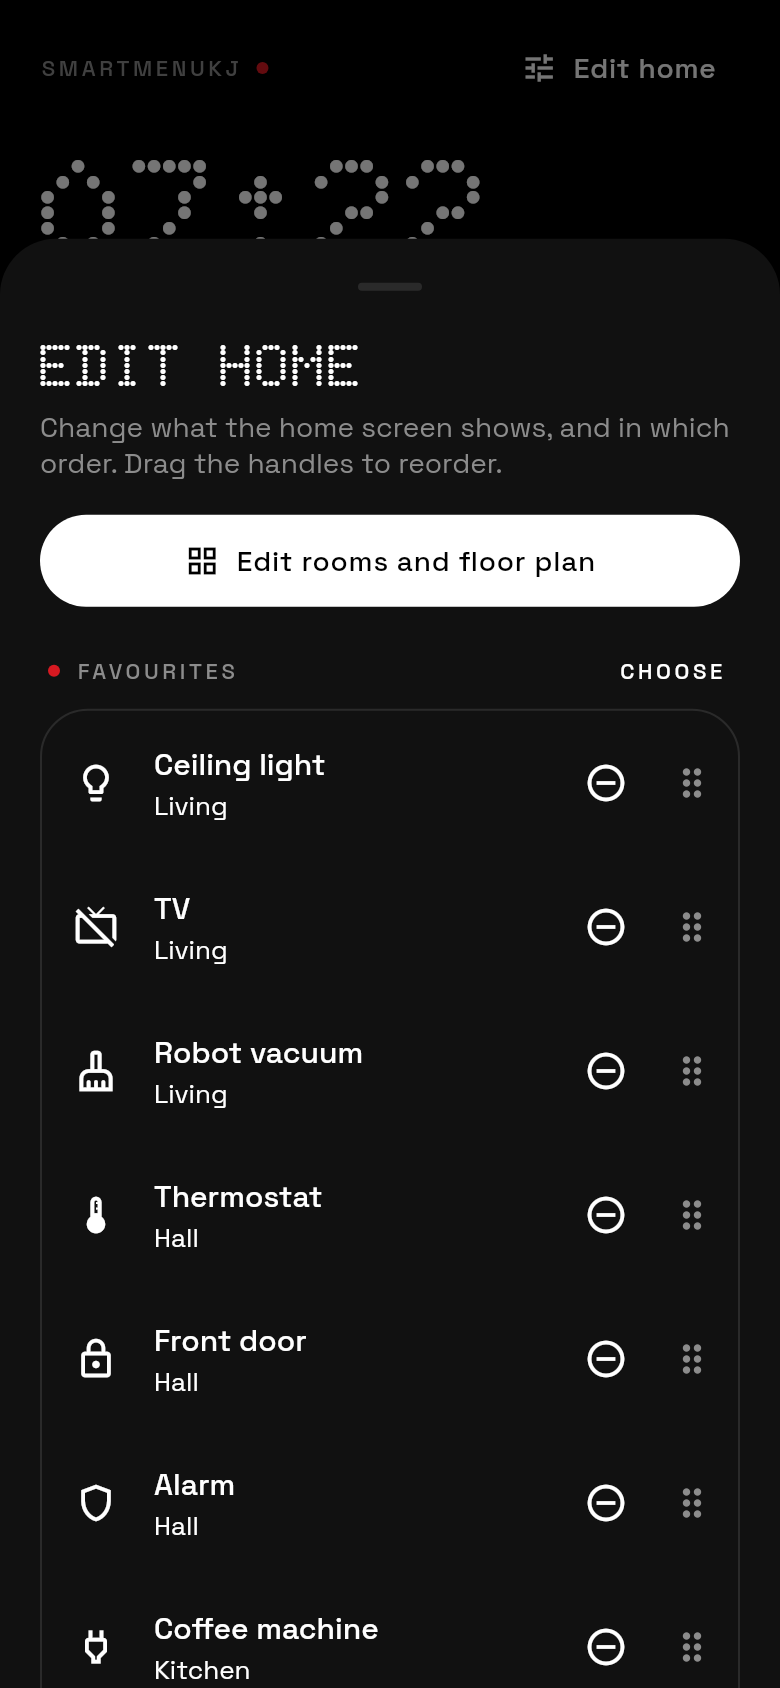
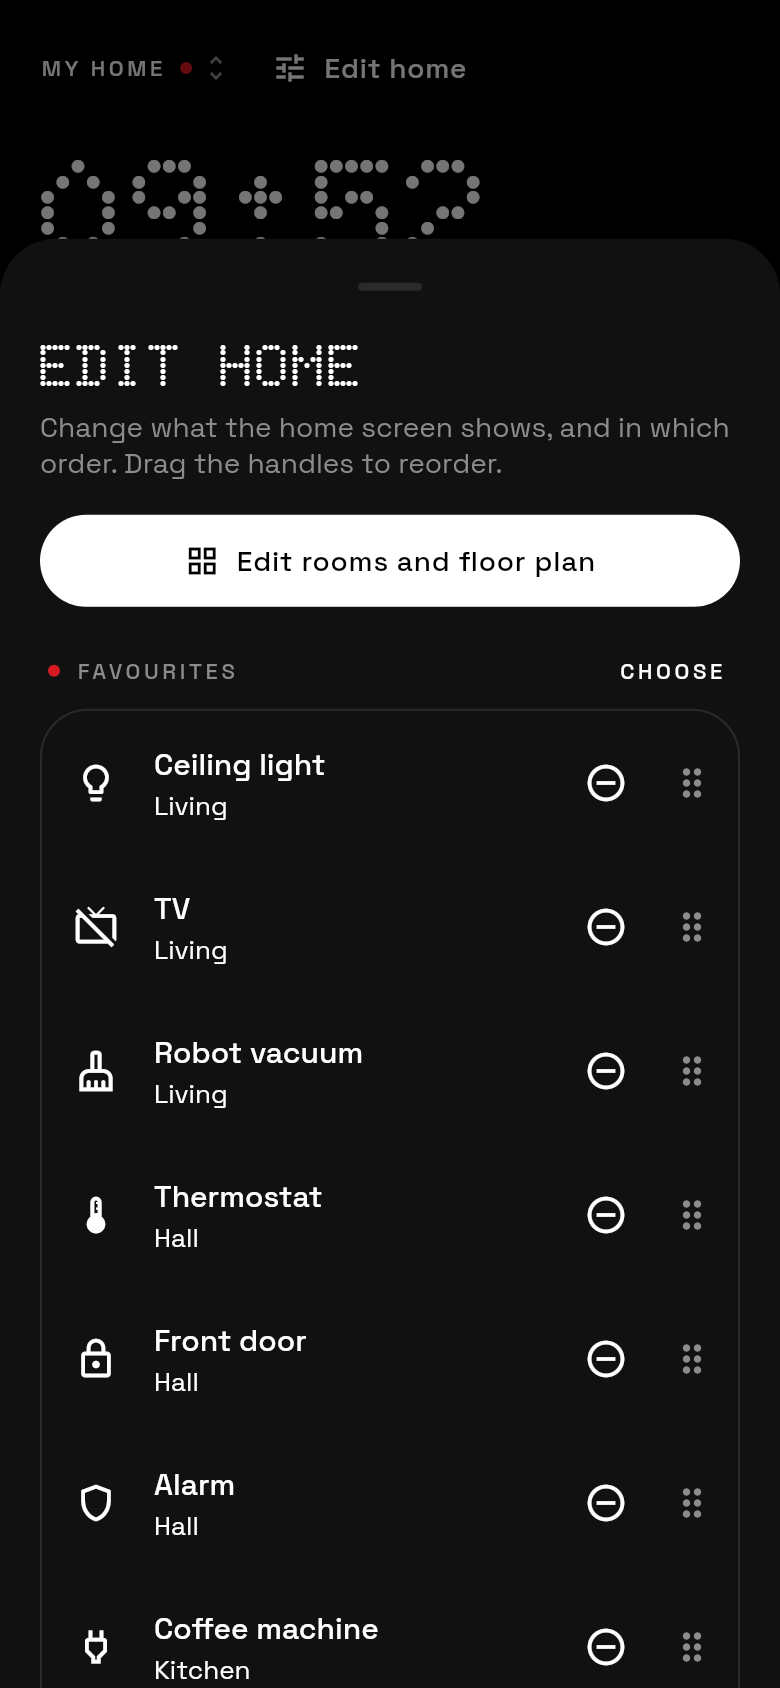
Guide and screenshots for homes and accounts
Claude-Session: https://claude.ai/code/session_01AboNtYpLiEfpvgLTNmuoCb

diff --git a/tool/screenshots_test.dart b/tool/screenshots_test.dart
@@ -7,7 +7,10 @@ import 'package:flutter/services.dart';
 import 'package:flutter_test/flutter_test.dart';
 import 'package:http/http.dart' as http;
 import 'package:http/testing.dart';
+import 'package:shared_preferences/shared_preferences.dart';
 import 'package:smartmenukj/app.dart';
+import 'package:smartmenukj/cloud/cloud_sync.dart';
+import 'package:smartmenukj/cloud/memory_cloud.dart';
 import 'package:smartmenukj/models/device.dart';
 import 'package:smartmenukj/state/home_store.dart';
 import 'package:smartmenukj/state/repository.dart';
@@ -29,14 +32,15 @@ Future<void> _loadFonts() async {
   }
 }
 
-Future<HomeStore> _app(WidgetTester tester, Size size, {String theme = 'dark'}) async {
+Future<HomeStore> _app(WidgetTester tester, Size size, {String theme = 'dark', CloudSync? cloud}) async {
   tester.view.physicalSize = size * 2;
   tester.view.devicePixelRatio = 2;
   addTearDown(tester.view.reset);
   final store = HomeStore(repository: MemoryHomeRepository(), client: MockClient((_) async => http.Response('[]', 200)));
   await store.load();
   store.data.themeMode = theme;
-  await tester.pumpWidget(SmartMenuApp(store: store, poll: false));
+  // A pretend cloud, signed out, so the account card shows as it does in the app.
+  await tester.pumpWidget(SmartMenuApp(store: store, cloud: cloud ?? CloudSync(store: store, api: MemoryCloud().app()), poll: false));
   await tester.pumpAndSettle();
   return store;
 }
@@ -162,6 +166,39 @@ void main() {
     await tester.pumpAndSettle();
     await tester.enterText(find.byKey(const Key('matter-code')), '3497-011-2332');
     await _shot(tester, 'phone-matter');
+  });
+
+  testWidgets('phone homes', (tester) async {
+    final store = await _app(tester, phone);
+    await store.addHome('Beach house');
+    await store.addHome('Office');
+    await store.openHome(store.homes.first.id);
+    await tester.pumpAndSettle();
+    await tester.tap(find.byKey(const Key('home-switch')));
+    await _shot(tester, 'phone-homes');
+  });
+
+  testWidgets('phone account', (tester) async {
+    // ignore: invalid_use_of_visible_for_testing_member
+    SharedPreferences.setMockInitialValues({});
+    tester.view.physicalSize = phone * 2;
+    tester.view.devicePixelRatio = 2;
+    addTearDown(tester.view.reset);
+    final store = HomeStore(repository: MemoryHomeRepository(), client: MockClient((_) async => http.Response('[]', 200)));
+    await store.load();
+    store.addVirtualDevice('demo', 'Porch light', DeviceKind.light);
+    final cloud = CloudSync(store: store, api: MemoryCloud().app(), deviceName: 'Kitchen tablet', delay: const Duration(milliseconds: 10));
+    await cloud.start();
+    await cloud.signIn('kj@example.com', 'secret1', create: true);
+    await cloud.setHub(true);
+    await tester.pumpWidget(SmartMenuApp(store: store, cloud: cloud, poll: false));
+    await tester.pumpAndSettle();
+    await tester.tap(find.byKey(const Key('tab-connect')));
+    await tester.pumpAndSettle();
+    await tester.tap(find.byKey(const Key('account-card')));
+    await _shot(tester, 'phone-account');
+    cloud.dispose();
+    await tester.pump(const Duration(seconds: 1));
   });
 
   testWidgets('phone light theme', (tester) async {

diff --git a/README.md b/README.md
@@ -4,7 +4,7 @@
 
 A free smart home app for phones and computers. Draw your home as a floor plan, put your devices where they really are, and control them with a tap. It is styled after Nothing OS: black and white, dot-matrix type and a single red accent.
 
-Everything is free and local-first. There is no account, no cloud, no subscription and no paywall. The app talks to your devices directly on your home network, and your home layout is saved on your own device.
+Everything is free and local-first. There is no subscription and no paywall, and no account is needed: the app talks to your devices directly on your home network, and your homes are saved on your own device. A free account is optional; it keeps your homes in step on every phone and computer and lets you switch things from anywhere.
 
 **[Download for Android](https://github.com/SW1TF0/HomeOS/releases/latest/download/SmartMenuKJ-android.apk)** · [Windows, macOS and Linux](https://github.com/SW1TF0/HomeOS/releases/latest)
 
@@ -20,9 +20,9 @@ Everything is free and local-first. There is no account, no cloud, no subscripti
 | --- | --- | --- | --- |
 | ![Colour](docs/screenshots/phone-colour.png) | ![Connect](docs/screenshots/phone-connect.png) | ![Matter](docs/screenshots/phone-matter.png) | ![Light theme](docs/screenshots/phone-devices-light.png) |
 
-| Robot vacuum | Alarm |
-| --- | --- |
-| ![Robot vacuum](docs/screenshots/phone-vacuum.png) | ![Alarm](docs/screenshots/phone-alarm.png) |
+| Robot vacuum | Alarm | More than one home | Account |
+| --- | --- | --- | --- |
+| ![Robot vacuum](docs/screenshots/phone-vacuum.png) | ![Alarm](docs/screenshots/phone-alarm.png) | ![Homes](docs/screenshots/phone-homes.png) | ![Account](docs/screenshots/phone-account.png) |
 
 ![Desktop](docs/screenshots/desktop-map.png)
 
@@ -36,6 +36,8 @@ Everything is free and local-first. There is no account, no cloud, no subscripti
 - **Matter, with no hub.** SmartMenuKJ is its own Matter controller: type a device's pairing code and its lights, plugs, sensors, blinds, locks, thermostat, robot vacuum, washer, dishwasher, air purifier, water valve or smoke alarm appear, controlled directly on your network. Matter bridges (Hue, IKEA, Aqara...) bring all their devices at once.
 - **Scan network.** Finds everything on your Wi-Fi that answers (mDNS, UPnP / SSDP, Kasa and Yeelight discovery, and a quick check of TV ports): TVs, speakers, plugs, lights, hubs, printers and more. Add anything in one tap, or type a device's IP address.
 - **TV remote.** Power, volume, mute, channels, arrows, OK, back, home and play / pause for Samsung, LG, Sony and Roku TVs, plus volume and play / pause for Chromecast, Google TV and UPnP speakers. TVs that are fully off are woken with Wake-on-LAN.
+- **More than one home.** Tap the home's name at the top of the home screen to switch homes, add one, rename, reorder or delete them. Each home has its own floor plan, devices, connections and scenes.
+- **Account and control from anywhere (optional, free).** Sign in under **Connect** and your homes are saved to your account and stay in step on every device you sign in on. Most devices only answer on your home Wi-Fi, so leave one phone, tablet or computer at home with the app, signed in and plugged in, and turn on **Keep … online from this device** there. Your other devices then switch things through it from anywhere; the home screen shows *Away · through …* when they do. On Android it keeps running in the background with a small notification.
 - **Backups.** Copy your whole home (rooms, devices, connections) as text and paste it back on another phone or computer.
 - **Light and dark themes**, phone layout with a bottom bar, desktop layout with a side rail.
 
@@ -82,6 +84,7 @@ The macOS app is not signed, so the first time you open it, right-click it and c
 1. The app opens with a sample home of virtual devices so you can try everything right away. Delete or move anything you like.
 2. Go to **Connect** and tap **Scan network**, or pick a connection and type its address.
 3. New devices appear on the **Devices** tab. Open **Map** and tap **Edit**: new devices wait in the tray at the bottom, drag each one into its room.
+4. To control your home when you are out, tap **Sign in** on **Connect**, create an account, and on a device that stays at home turn on **Keep … online from this device**.
 
 ## For developers
 
@@ -90,15 +93,24 @@ lib/
   models/         Device, room, floor and home data (JSON)
   integrations/   One driver per system + catalog + network scan
   state/          HomeStore (all changes go through it), local storage, sample home
+  cloud/          Accounts, sync and remote control over Firebase (REST, no SDK)
   theme/          Nothing-style colours and type
   ui/             Screens and shared widgets
 test/             Model, driver, store and widget tests
 tool/             Screenshot generator
+firebase/         Database rules and emulator settings
 ```
 
 - `flutter analyze` and `flutter test` run on every pull request.
 - `flutter test tool/screenshots_test.dart --update-goldens` regenerates the screenshots in `docs/screenshots/`.
+- `firebase emulators:exec --only auth,database --config firebase/firebase.json "FIREBASE_EMULATOR=1 flutter test test/firebase_emulator_test.dart"` checks accounts, sync and the database rules against the real Firebase emulators.
 - `python3 tool/make_icons.py` redraws the app icon for every platform (needs Pillow).
+
+### Accounts (Firebase)
+
+Accounts use a free Firebase project (Spark plan) through its REST APIs: Email/Password sign-in and the Realtime Database. To use your own project, turn those two on, paste `firebase/database.rules.json` under **Realtime Database → Rules**, and build with `--dart-define=FIREBASE_API_KEY=... --dart-define=FIREBASE_DATABASE_URL=https://....firebasedatabase.app`. The rules let each account read and write only the homes it belongs to.
+
+What is stored: the layout of each home (floors, rooms, devices, scenes, and connections with their addresses, tokens and passwords, so your other devices can use them too), its name, which device keeps it online, and while one does, what the devices are doing and the commands sent through it. Alarm codes are never stored.
 
 ## Credits and licences
 
